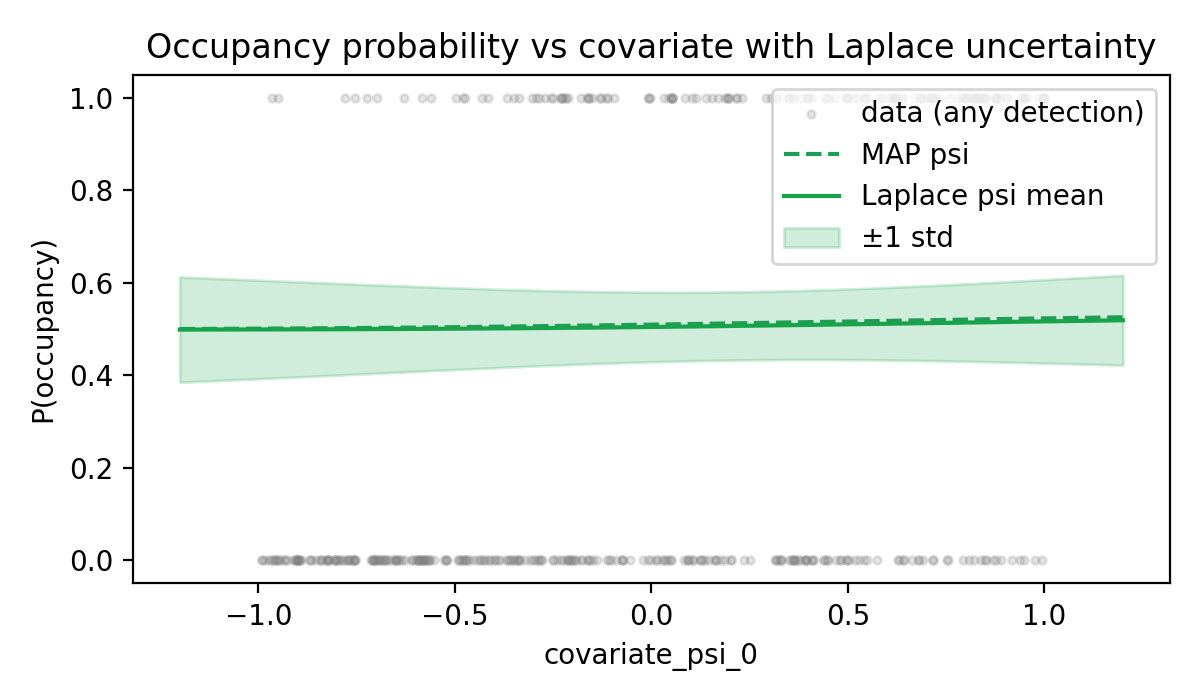
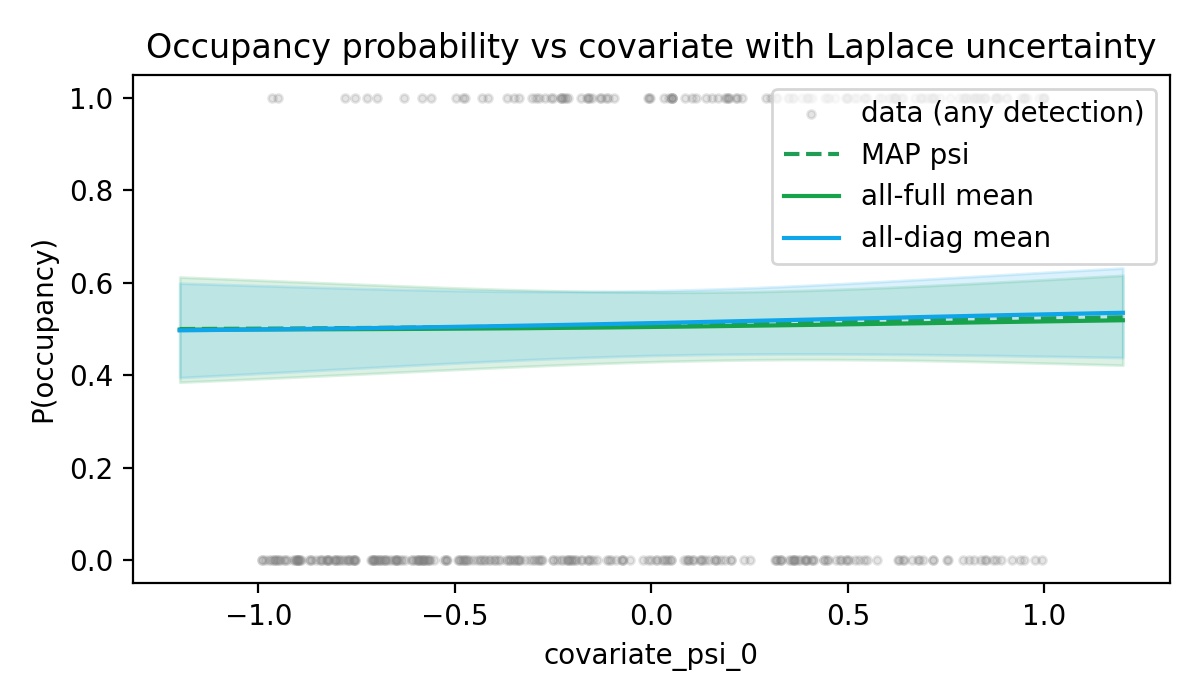
works A-ok

Changed region(s): [[0.1542, 0.36, 0.9558, 0.48], [0.6475, 0.3, 0.8942, 0.36], [0.7092, 0.27, 0.925, 0.3]]

diff --git a/laplace/likelihood.py b/laplace/likelihood.py
@@ -122,6 +122,14 @@ class Likelihood(torch.nn.Module, ABC):
         """Return diagonal Hessian blocks for functional Laplace."""
         raise NotImplementedError
 
+    def sample_functional_grad(self, f: torch.Tensor) -> torch.Tensor:
+        """Return one Monte Carlo sample of the functional gradient."""
+        raise NotImplementedError
+
+    def functional_hessian(self, f: torch.Tensor) -> torch.Tensor | None:
+        """Return functional Hessian (or Fisher) wrt outputs; None if identity."""
+        return None
+
 
 class ClassificationLikelihood(Likelihood):
     """Multiclass classification via cross entropy."""
@@ -193,8 +201,13 @@ class ClassificationLikelihood(Likelihood):
         ps = torch.nn.functional.softmax(f_batch, dim=-1)
         return torch.diag_embed(ps) - torch.einsum("mk,mc->mck", ps, ps)
 
-    def functional_lambdas(self, f_batch: torch.Tensor) -> torch.Tensor:  # type: ignore[override]
-        ps = torch.nn.functional.softmax(f_batch, dim=-1)
+    def sample_functional_grad(self, f: torch.Tensor) -> torch.Tensor:  # type: ignore[override]
+        y_sample = torch.distributions.Multinomial(logits=f).sample()
+        p = torch.softmax(f, dim=-1)
+        return p - y_sample
+
+    def functional_hessian(self, f: torch.Tensor) -> torch.Tensor:  # type: ignore[override]
+        ps = torch.nn.functional.softmax(f, dim=-1)
         return torch.diag_embed(ps) - torch.einsum("mk,mc->mck", ps, ps)
 
 
@@ -295,6 +308,14 @@ class RegressionLikelihood(Likelihood):
         eye = torch.eye(C, device=f_batch.device, dtype=f_batch.dtype)
         return torch.unsqueeze(eye, 0).repeat(b, 1, 1)
 
+    def sample_functional_grad(self, f: torch.Tensor) -> torch.Tensor:  # type: ignore[override]
+        return torch.randn_like(f)
+
+    def functional_hessian(self, f: torch.Tensor) -> torch.Tensor | None:  # type: ignore[override]
+        b, c = f.shape
+        eye = torch.eye(c, device=f.device, dtype=f.dtype).expand(b, c, c)
+        return eye
+
 
 class RewardModelingLikelihood(Likelihood):
     """Bradley-Terry style preference learning (classification loss, placeholder predict)."""
@@ -358,3 +379,12 @@ class RewardModelingLikelihood(Likelihood):
 
     def is_classification_like(self) -> bool:  # type: ignore[override]
         return True
+
+    def sample_functional_grad(self, f: torch.Tensor) -> torch.Tensor:  # type: ignore[override]
+        y_sample = torch.distributions.Multinomial(logits=f).sample()
+        p = torch.softmax(f, dim=-1)
+        return p - y_sample
+
+    def functional_hessian(self, f: torch.Tensor) -> torch.Tensor:  # type: ignore[override]
+        ps = torch.softmax(f, dim=-1)
+        return torch.diag_embed(ps) - torch.einsum("mk,mc->mck", ps, ps)

diff --git a/laplace/curvature/curvature.py b/laplace/curvature/curvature.py
@@ -4,6 +4,7 @@ from typing import Any, Callable, MutableMapping
 
 import torch
 from torch import nn
+import warnings
 from laplace.likelihood import Likelihood as LikelihoodModule
 from laplace.utils import Kron
 
@@ -53,7 +54,7 @@ class CurvatureInterface:
     ):
         if not isinstance(likelihood, LikelihoodModule):
             raise ValueError("CurvatureInterface now requires a Likelihood object.")
-        self.likelihood: str = likelihood.name
+        self.likelihood: LikelihoodModule = likelihood
         self.model: nn.Module = model
         self.last_layer: bool = last_layer
         self.subnetwork_indices: torch.LongTensor | None = subnetwork_indices
@@ -344,15 +345,7 @@ class GGNInterface(CurvatureInterface):
         F = 0
 
         for _ in range(self.num_samples):
-            if self.likelihood == "regression":
-                # N(y | f, 1)
-                y_sample = f + torch.randn(f.shape, device=f.device, dtype=f.dtype)
-                grad_sample = f - y_sample  # functional MSE grad
-            else:  # classification with softmax
-                y_sample = torch.distributions.Multinomial(logits=f).sample()
-                # First functional derivative of the loglik is p - y
-                p = torch.softmax(f, dim=-1)
-                grad_sample = p - y_sample
+            grad_sample = self.likelihood.sample_functional_grad(f)
 
             F += (
                 1
@@ -363,13 +356,15 @@ class GGNInterface(CurvatureInterface):
         return F
 
     def _get_functional_hessian(self, f: torch.Tensor) -> torch.Tensor | None:
-        if self.likelihood == "regression":
-            return None
-        else:
-            # second derivative of log lik is diag(p) - pp^T
-            ps = torch.softmax(f, dim=-1)
-            G = torch.diag_embed(ps) - torch.einsum("mk,mc->mck", ps, ps)
-            return G
+        H = self.likelihood.functional_hessian(f)
+        if H is None:
+            warnings.warn(
+                "functional_hessian returned None; falling back to identity/J^T J. "
+                "Implement functional_hessian in your likelihood or use a Fisher backend "
+                "for better curvature.",
+                RuntimeWarning,
+            )
+        return H
 
     def full(
         self,

diff --git a/laplace/curvature/curvlinops.py b/laplace/curvature/curvlinops.py
@@ -35,15 +35,14 @@ class CurvlinopsInterface(CurvatureInterface):
         super().__init__(
             model, likelihood, last_layer, subnetwork_indices, dict_key_x, dict_key_y
         )
-        self._likelihood = likelihood if isinstance(likelihood, LikelihoodModule) else None
+        self._likelihood = likelihood
 
     def _loss_closure(self):
-        if self._likelihood is not None:
-            def loss_fn(f, target):
-                return self._likelihood.loss(f, target, reduction="sum")
-            loss_fn.reduction = "sum"
-            return loss_fn
-        return self.lossfunc
+        def loss_fn(f, target):
+            return self._likelihood.loss(f, target, reduction="sum")
+
+        loss_fn.reduction = "sum"
+        return loss_fn
 
     @property
     def _kron_fisher_type(self) -> str:

diff --git a/examples/occupancy_custom_likelihood.py b/examples/occupancy_custom_likelihood.py
@@ -155,11 +155,10 @@ def main():
     train_map(model, loader)
 
     likelihood = OccupancyLikelihood(n_visits)
+    # Last-layer Laplace is not compatible with the multi-head occupancy model.
     variants = [
         ("full", "all", model),
         ("diag", "all", model),
-        ("full", "last_layer", OccupancyModel(n_visits)),
-        ("diag", "last_layer", OccupancyModel(n_visits)),
     ]
 
     curves = []
@@ -205,8 +204,6 @@ def main():
     colors = {
         ("full", "all"): "#16a34a",
         ("diag", "all"): "#0ea5e9",
-        ("full", "last_layer"): "#f59e0b",
-        ("diag", "last_layer"): "#ef4444",
     }
     for hess, subset, mean, std in curves:
         label = f"{subset}-{hess}"

diff --git a/laplace/lllaplace.py b/laplace/lllaplace.py
@@ -163,6 +163,7 @@ class LLLaplace(ParametricLaplace):
         fs = torch.stack(fs)
         return self._likelihood.transform_function_samples(fs)
 
+    @property
     def prior_precision_diag(self) -> torch.Tensor:  # type: ignore[override]
         if (
             isinstance(self.prior_precision, float) or len(self.prior_precision) == 1
